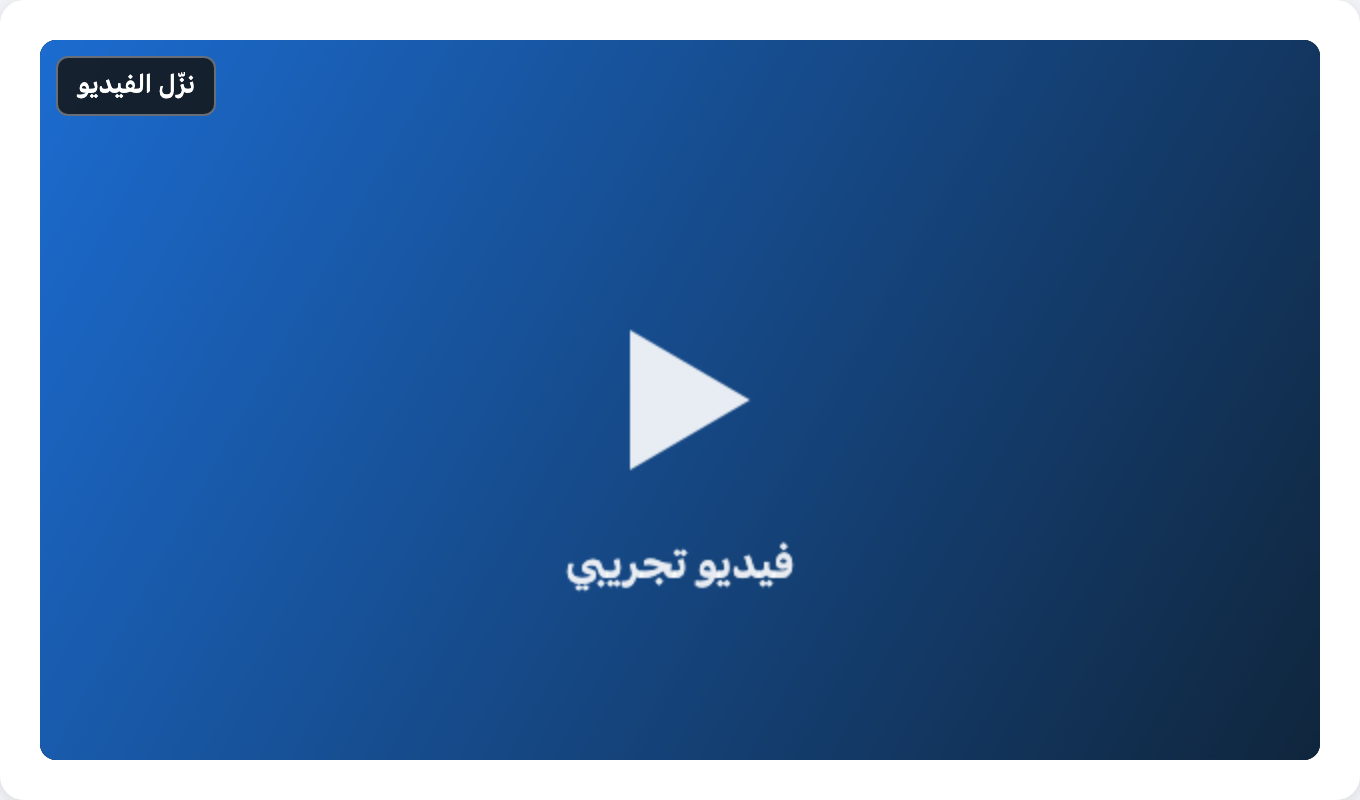
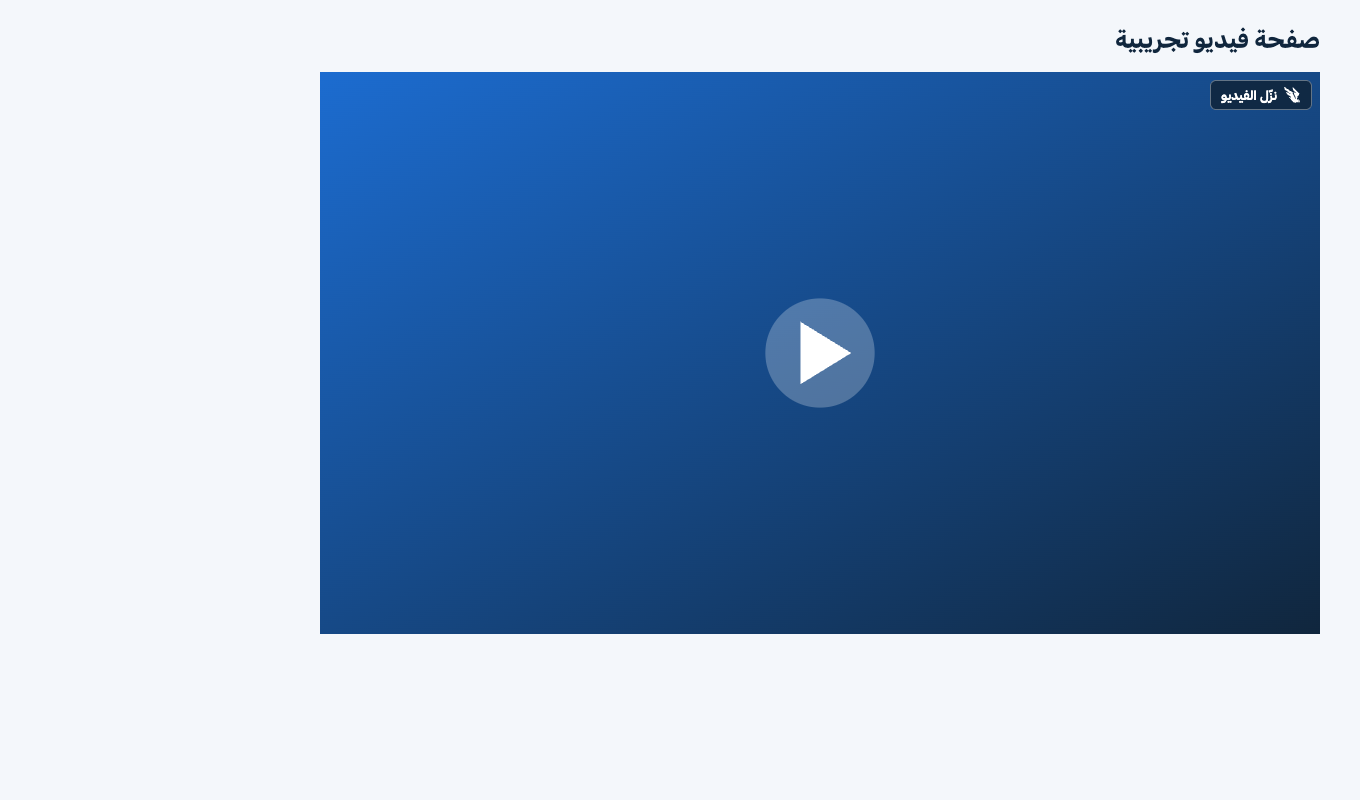
docs(release): the video button's picture as it is now, top right with Zajil's mark

diff --git a/docs/releases/v1.0.0.md b/docs/releases/v1.0.0.md
@@ -8,7 +8,7 @@
 
 ## صور
 
-صور حقيقية من الـ CI (بيانات تجريبية فقط):
+صور حقيقية من الـ CI، وصورة زر الفيديو من Chrome حقيقي بسكريبت الإضافة نفسه على صفحة تجريبية محلية (بيانات تجريبية فقط):
 
 | النافذة الرئيسية (فاتح) | النافذة الرئيسية (داكن) |
 |---|---|
@@ -16,7 +16,7 @@
 | **نافذة التقدم بالأجزاء** | **نافذة «جودة الفيديو»** |
 | ![نافذة التقدم: الأجزاء والاتصالات](https://raw.githubusercontent.com/motalim-ai/zajil-download-manager/v1.0.0/docs/screenshots/progress-ar.png) | ![نافذة جودة الفيديو: الجودات والحجم واسم الملف](https://raw.githubusercontent.com/motalim-ai/zajil-download-manager/v1.0.0/docs/screenshots/video-quality-ar.png) |
 | **«معلومات ملف التحميل»** | **زر «نزّل الفيديو» فوق الفيديو (الإضافة)** |
-| ![نافذة معلومات ملف التحميل الصغيرة: الرابط والفئة والاسم والمجلد](https://raw.githubusercontent.com/motalim-ai/zajil-download-manager/v1.0.0/docs/screenshots/file-info-ar.png) | ![زر نزّل الفيديو فوق فيديو تجريبي في المتصفح](https://raw.githubusercontent.com/motalim-ai/zajil-download-manager/v1.0.0/docs/screenshots/video-button-ar.png) |
+| ![نافذة معلومات ملف التحميل الصغيرة: الرابط والفئة والاسم والمجلد](https://raw.githubusercontent.com/motalim-ai/zajil-download-manager/v1.0.0/docs/screenshots/file-info-ar.png) | ![زر نزّل الفيديو أعلى يمين فيديو تجريبي في المتصفح، ومعه علامة زاجِل](https://raw.githubusercontent.com/motalim-ai/zajil-download-manager/v1.0.0/docs/screenshots/video-button-ar.png) |
 | **«تحميل الموقع»** | **«تحميل بالجملة»** |
 | ![نافذة تحميل الموقع: الحدود، والملفات التي وُجدت قبل إضافتها، والمجلد](https://raw.githubusercontent.com/motalim-ai/zajil-download-manager/v1.0.0/docs/screenshots/grab-ar.png) | ![نافذة التحميل بالجملة: النمط والروابط قبل إضافتها](https://raw.githubusercontent.com/motalim-ai/zajil-download-manager/v1.0.0/docs/screenshots/batch-ar.png) |
 
@@ -177,7 +177,7 @@ This is Zajil's first published release (0.2.0 was a test draft that was never p
 
 ## Screenshots
 
-Real screenshots from CI (test data only):
+Real screenshots from CI, and the video button's from a real Chrome running the extension's own script on a local test page (test data only):
 
 | Main window (light) | Main window (dark) |
 |---|---|
@@ -185,7 +185,7 @@ Real screenshots from CI (test data only):
 | **The progress window with its parts** | **The «Video quality» window** |
 | ![The progress window: its parts and connections](https://raw.githubusercontent.com/motalim-ai/zajil-download-manager/v1.0.0/docs/screenshots/progress-ar.png) | ![The Video quality window: the formats, their size and the file name](https://raw.githubusercontent.com/motalim-ai/zajil-download-manager/v1.0.0/docs/screenshots/video-quality-ar.png) |
 | **«Download file info»** | **The «Download video» button over a video (the extension)** |
-| ![The small Download file info window: the link, the category, the name and the folder](https://raw.githubusercontent.com/motalim-ai/zajil-download-manager/v1.0.0/docs/screenshots/file-info-ar.png) | ![The Download video button over a test video in the browser](https://raw.githubusercontent.com/motalim-ai/zajil-download-manager/v1.0.0/docs/screenshots/video-button-ar.png) |
+| ![The small Download file info window: the link, the category, the name and the folder](https://raw.githubusercontent.com/motalim-ai/zajil-download-manager/v1.0.0/docs/screenshots/file-info-ar.png) | ![The Download video button at the top right of a test video in the browser, with Zajil's mark](https://raw.githubusercontent.com/motalim-ai/zajil-download-manager/v1.0.0/docs/screenshots/video-button-ar.png) |
 | **«Site grabber»** | **«Batch download»** |
 | ![The Site grabber window: the limits, the files found before they are added, and the folder](https://raw.githubusercontent.com/motalim-ai/zajil-download-manager/v1.0.0/docs/screenshots/grab-ar.png) | ![The Batch download window: the pattern and the links before they are added](https://raw.githubusercontent.com/motalim-ai/zajil-download-manager/v1.0.0/docs/screenshots/batch-ar.png) |
 
